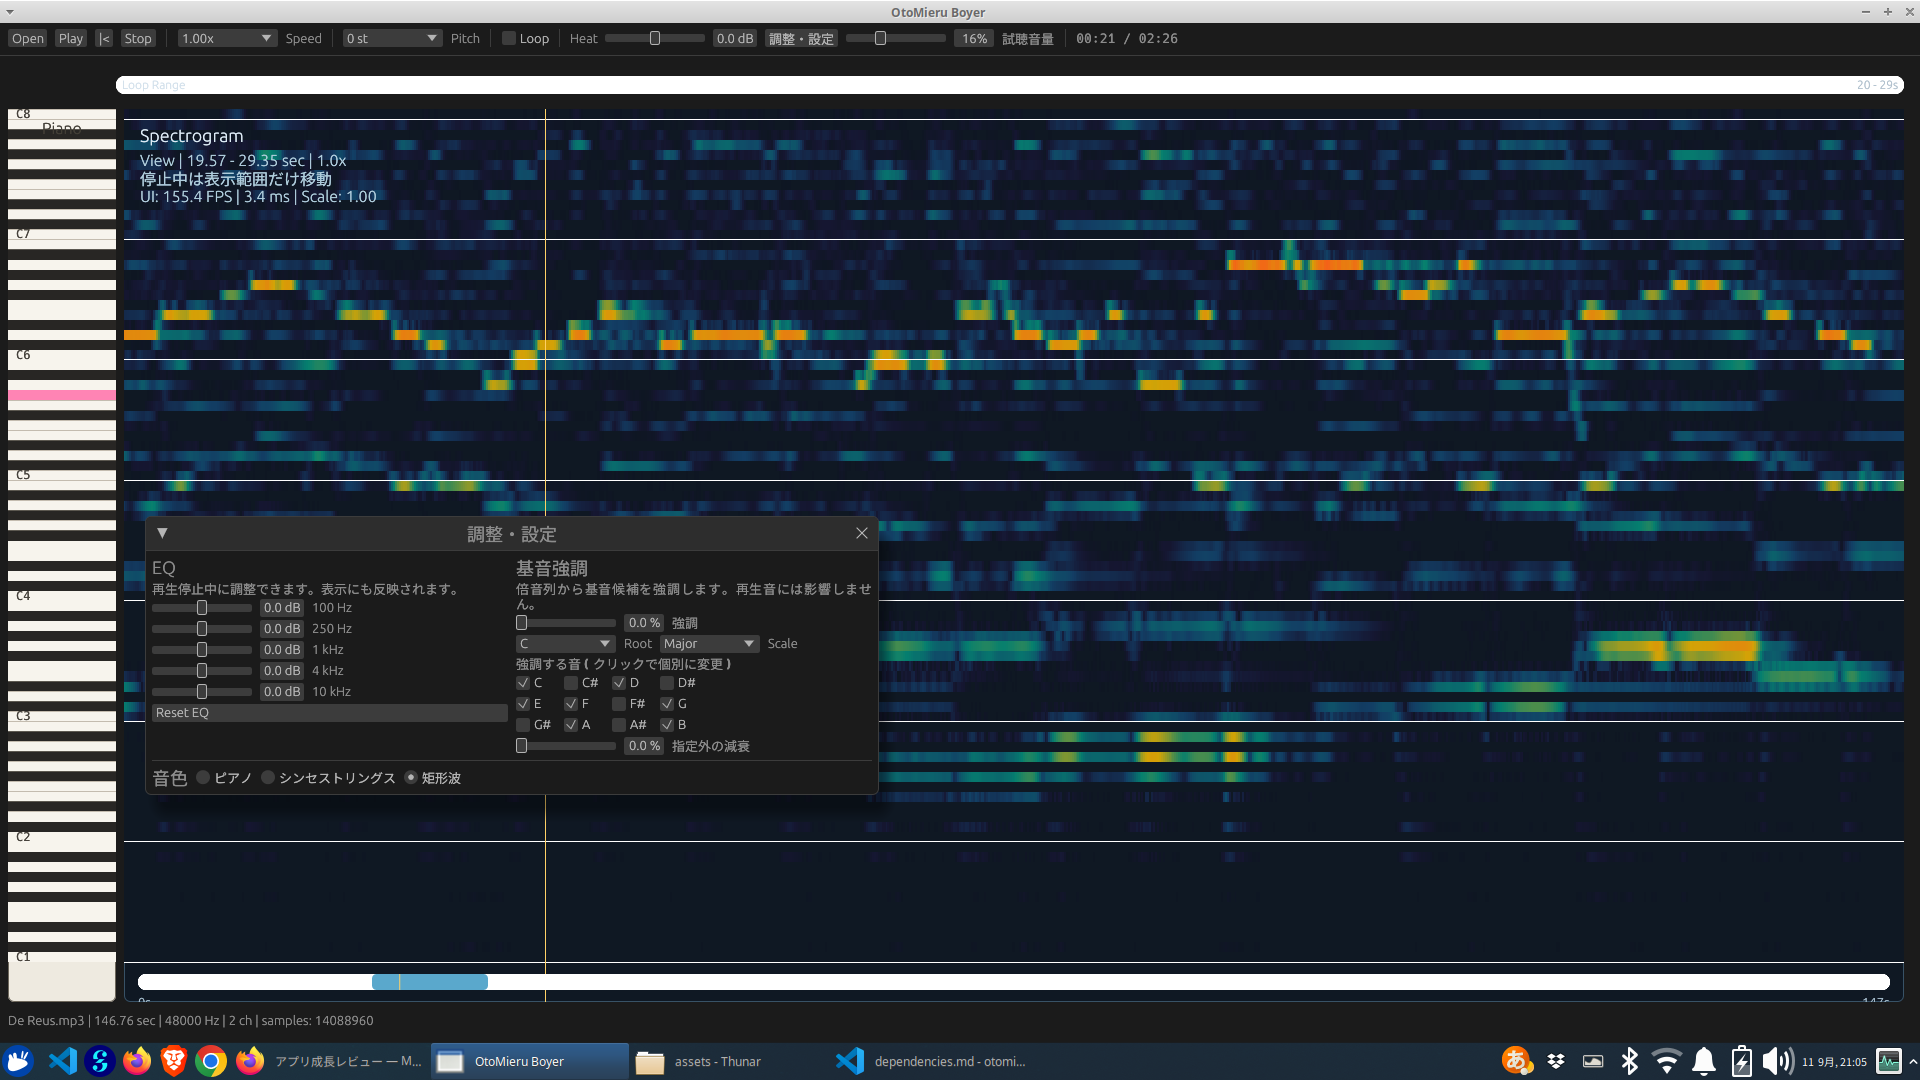
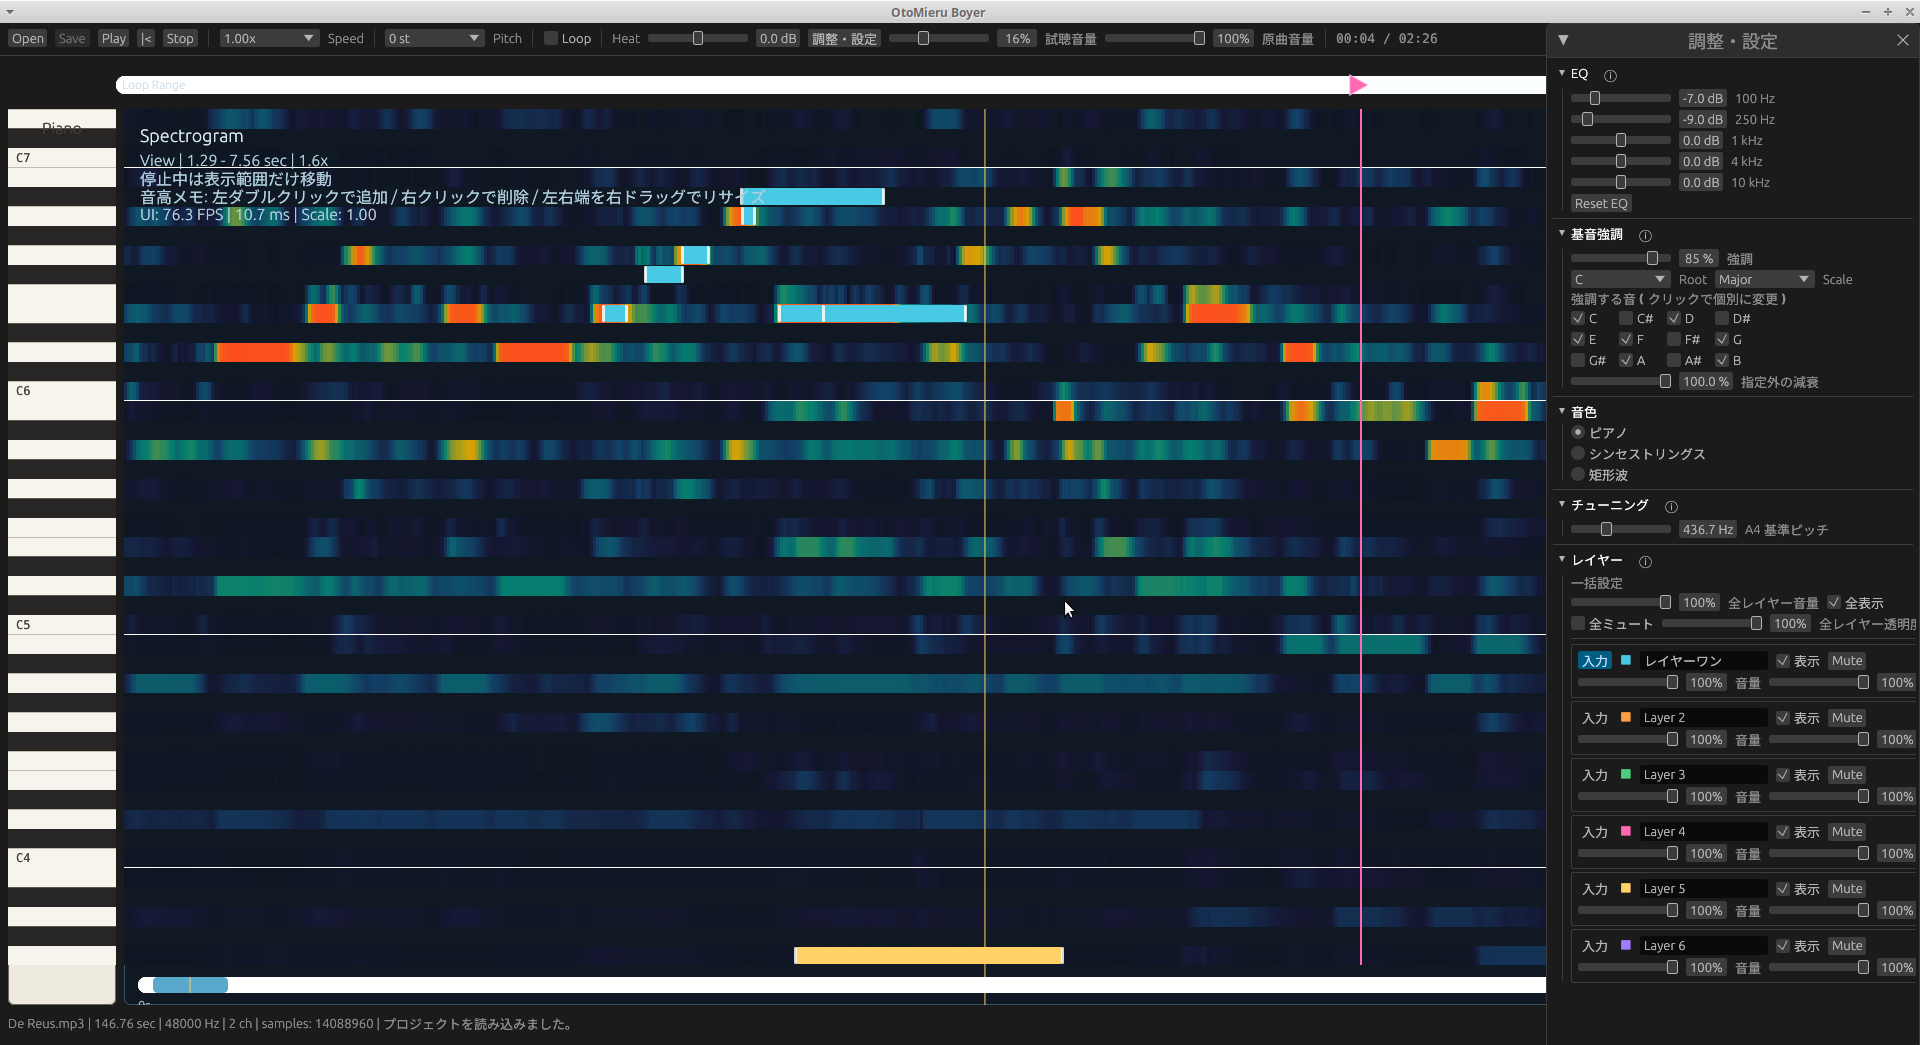
Release v0.3.0

diff --git a/.context/session.md b/.context/session.md
@@ -1,12 +1,13 @@
 # Current State
 
-Updated: 1789284921
+Updated: 1789290216
 
 Now:
-- Done: v0.1.0・v0.2.0のGit履歴を復元し、開発中のv0.3.0を含むCHANGELOGを追加
+- Done: cargo check・clippy・fmt・53テストを確認し、コンパイル／テスト上の緊急問題がないことを確認
+- Pending: specification/への文書移動に伴うMarkdownリンク切れを整理
 
 Next:
-- 実機で保存JSONから4項目が消えることと、再起動時のレイヤー初期値を確認
+- Problems一覧を確認し、エディタ診断を個別に分類
 
 Constraints:
 - Keep session.md short and optimized for Codex resumption.
@@ -18,5 +19,4 @@ Relevant:
 - cwd: /home/tuyomori/project/otomieru-boyer
 - file: .context/session.md
 - file: .context/turns.jsonl
-- file: <docs/OtoMieru Boyer v0.3.0 ― 音高メモ仕様.md>
-
+- file: specification/v0.3.0 音高メモ仕様書.md

diff --git a/specification/仕様書.md b/specification/仕様書.md
@@ -1,4 +1,9 @@
-# Otomieru Boyer 仕様書
+# Otomieru Boyer 全体仕様書
+
+> 対象バージョン: **v0.3.0**
+> 状態: リリース版
+
+v0.3.0で追加した音高メモとプロジェクト保存を含む、現行アプリケーションの全体仕様を定義する。音高メモ固有の詳細は[v0.3.0 音高メモ仕様書](<v0.3.0 音高メモ仕様書.md>)を参照する。
 
 ## 1. 概要
 
@@ -106,4 +111,4 @@ EQ、基音強調、チューニングの説明は見出し横のⓘ、または
 - 日本語UI: Noto Sans CJKまたはIPAex
 - ライセンス: GPL-2.0-or-later
 
-詳細な依存関係と同梱音源のライセンスは[docs/dependencies.md](docs/dependencies.md)を参照する。
+詳細な依存関係と同梱音源のライセンスは[docs/dependencies.md](../docs/dependencies.md)を参照する。

diff --git a/CHANGELOG.md b/CHANGELOG.md
@@ -1,8 +1,8 @@
 # 変更履歴
 
-この文書は、ユーザーに見える機能・操作・保存形式の変更を記録する。詳細な現行仕様は[仕様書](仕様書.md)、音高メモの詳細は[音高メモ仕様](<docs/OtoMieru Boyer v0.3.0 ― 音高メモ仕様.md>)を参照する。
+この文書は、ユーザーに見える機能・操作・保存形式の変更を記録する。詳細な現行仕様は[全体仕様書](<specification/仕様書.md>)、音高メモの詳細は[v0.3.0 音高メモ仕様書](<specification/v0.3.0 音高メモ仕様書.md>)を参照する。
 
-## v0.3.0（開発中）
+## v0.3.0 — 2026-09-13
 
 ### 追加
 

diff --git a/README.md b/README.md
@@ -73,7 +73,7 @@ cargo run
 cargo test
 ```
 
-詳細は[仕様書](仕様書.md)、[音高メモ仕様](<docs/OtoMieru Boyer v0.3.0 ― 音高メモ仕様.md>)、[変更履歴](CHANGELOG.md)、[アーキテクチャ](docs/architecture.md)、[外部依存関係と同梱音源](docs/dependencies.md)を参照してください。
+詳細は[全体仕様書](<specification/仕様書.md>)、[v0.3.0 音高メモ仕様書](<specification/v0.3.0 音高メモ仕様書.md>)、[変更履歴](CHANGELOG.md)、[アーキテクチャ](docs/architecture.md)、[外部依存関係と同梱音源](docs/dependencies.md)を参照してください。
 
 ## ライセンス
 
